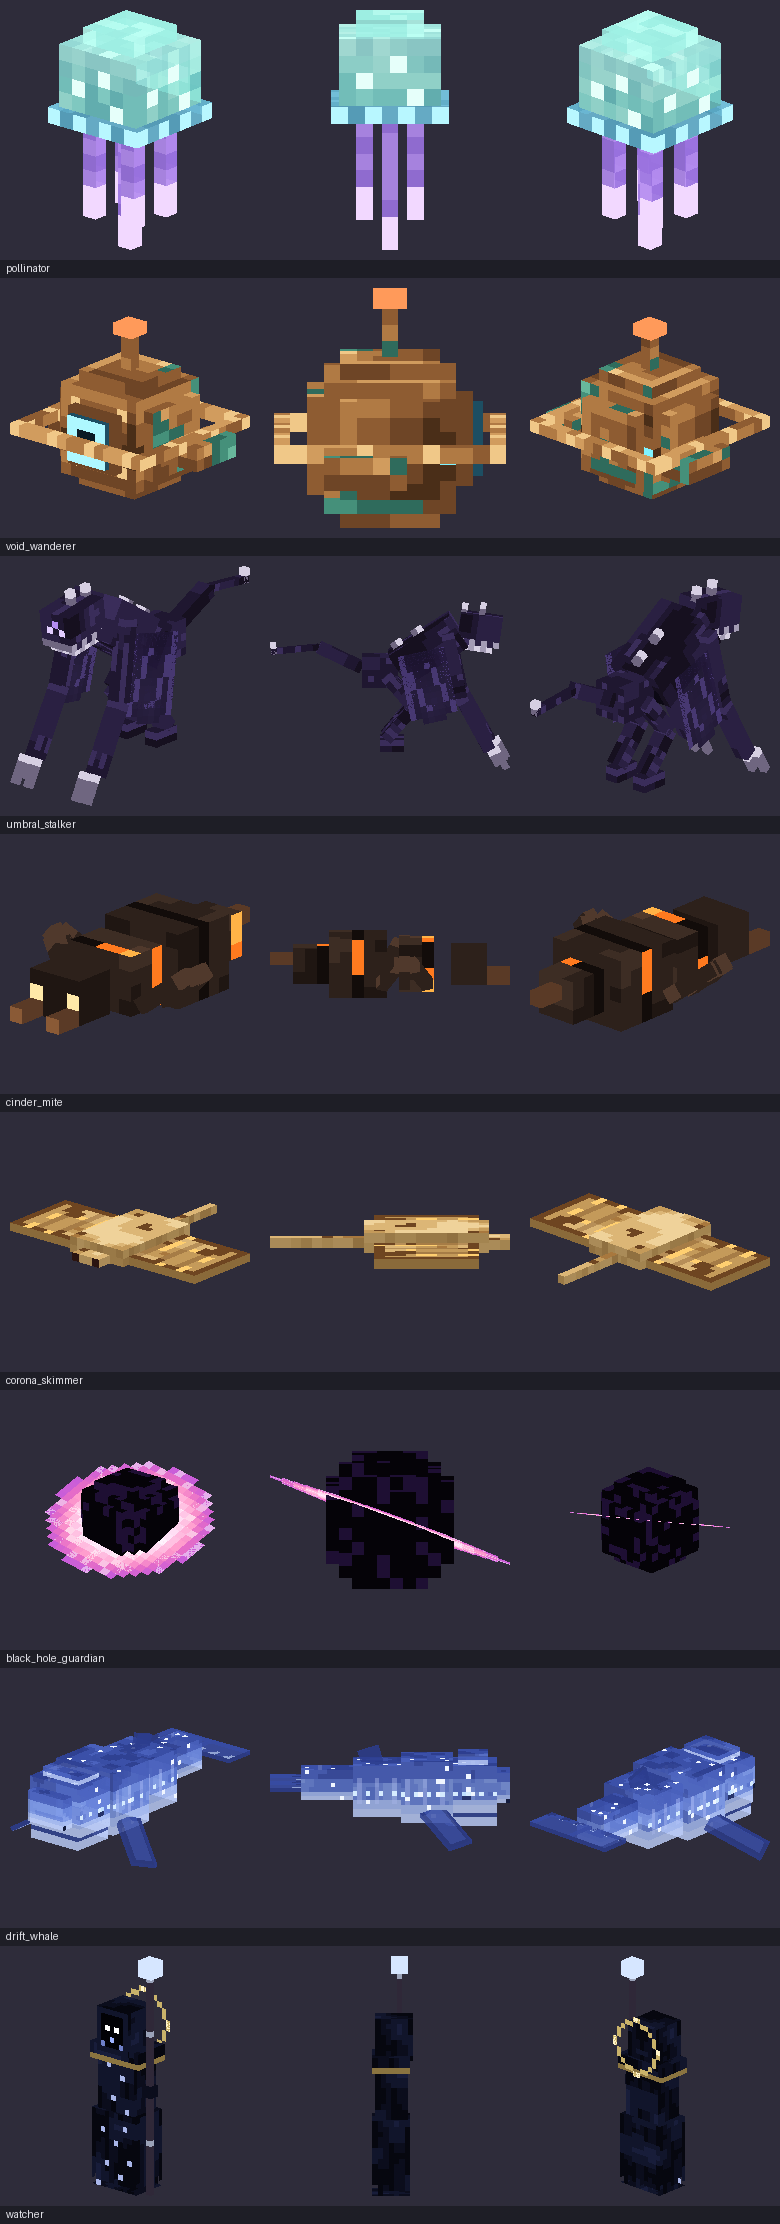
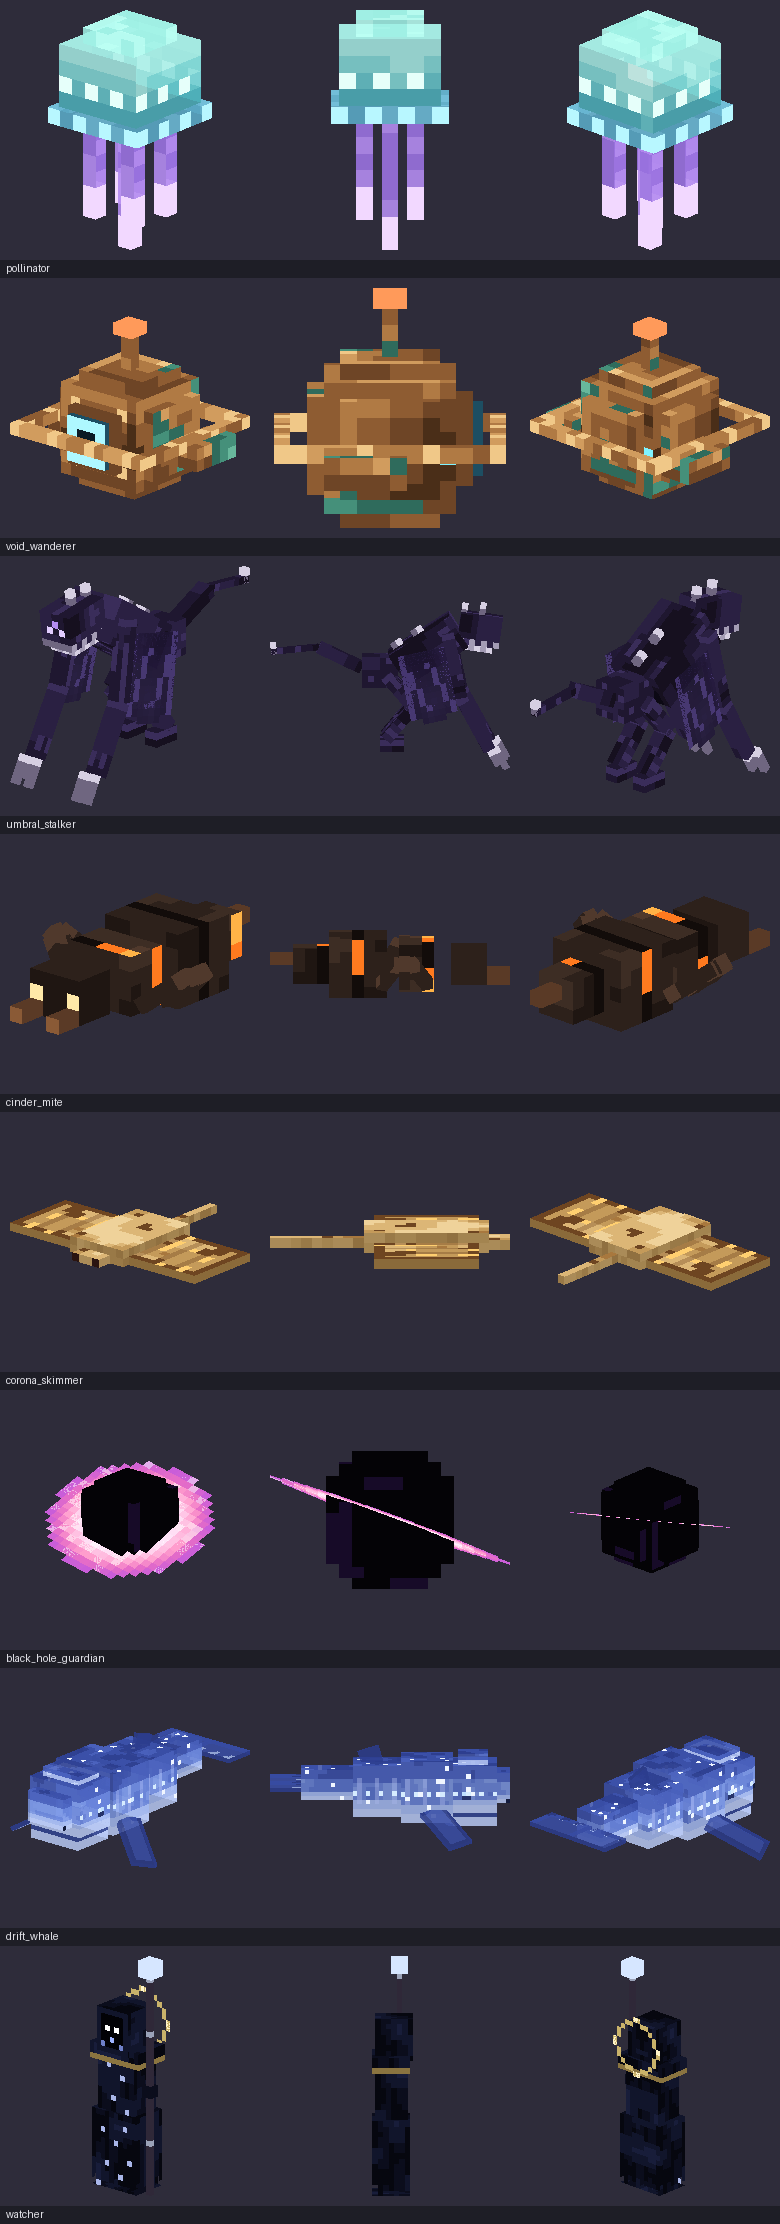
Pollinator bell and Black Hole Guardian core: smooth shading instead of random pixels
Claude-Session: https://claude.ai/code/session_0155WfD2TeFRTvCBedvK2Yiv

diff --git a/tools/mobs/make_mobs.py b/tools/mobs/make_mobs.py
@@ -228,21 +228,25 @@ P_RIM = [hexc("5aa8c4", 230), hexc("6bb8d4", 230)]
 P_TENDRIL = [hexc("b48cf0", 230), hexc("9a72e0", 230)]
 
 
+BELL = [hexc("4fb3bd", 215), hexc("67c8cc", 215), hexc("84dbd8", 215), hexc("a8eee6", 215), hexc("d4fff7", 220)]
+
+
 def pollinator_bell(face, px, py, fw, fh, rnd):
-    c = rnd.choice(P_BELL)
-    if face in ("north", "south", "east", "west"):
-        c = mix(c, hexc("c9fff6", 215), max(0.0, 0.5 - py / max(1, fh)))
+    """A translucent jelly bell: brightest at the crown, softly mottled, darker toward the rim."""
+    t = n()
     if face == "up":
-        c = mix(c, hexc("d9fff8", 215), 0.4)
+        return BELL[3 + (1 if t > 0.6 else 0)]
     if face == "down":
-        c = hexc("3d7f8a", 200)
-    return c
+        return hexc("2f7f8c", 200)
+    v = py / max(1, fh - 1)                       # 0 at the crown, 1 at the rim
+    i = int((1 - v) * 3.2 + t * 1.2)
+    return BELL[max(0, min(4, i))]
 
 
 def pollinator_bell_glow(face, px, py, fw, fh, rnd):
-    if face in ("north", "south", "east", "west") and (px + py * 2) % 5 == 0 and py >= 1:
-        return hexc("e6fffa")
-    if face == "up" and (px * 3 + py) % 7 == 0:
+    if face in ("north", "south", "east", "west") and py == fh - 2 and px % 2 == 0:
+        return hexc("e6fffa")                      # a ring of glowing dots round the bell
+    if face == "up" and (px, py) in ((1, 1), (4, 2), (2, 4)):
         return hexc("c8fff5")
     return None
 
@@ -633,10 +637,8 @@ SKIMMER = Mob("corona_skimmer", (64, 32), [
 
 # ---- Black Hole Guardian: a small singularity with a spinning accretion ring
 def guardian_core(face, px, py, fw, fh, rnd):
-    c = hexc("050308")
-    if edge_dist(px, py, fw, fh) == 0 and rnd.random() < 0.4:
-        c = hexc("1e0f33")
-    return c
+    """Lightless black: nothing reflects from it. Only faint flecks of light caught falling in."""
+    return hexc("170b28") if n() > 0.86 else hexc("040306")
 
 
 def guardian_ring(face, px, py, fw, fh, rnd):
